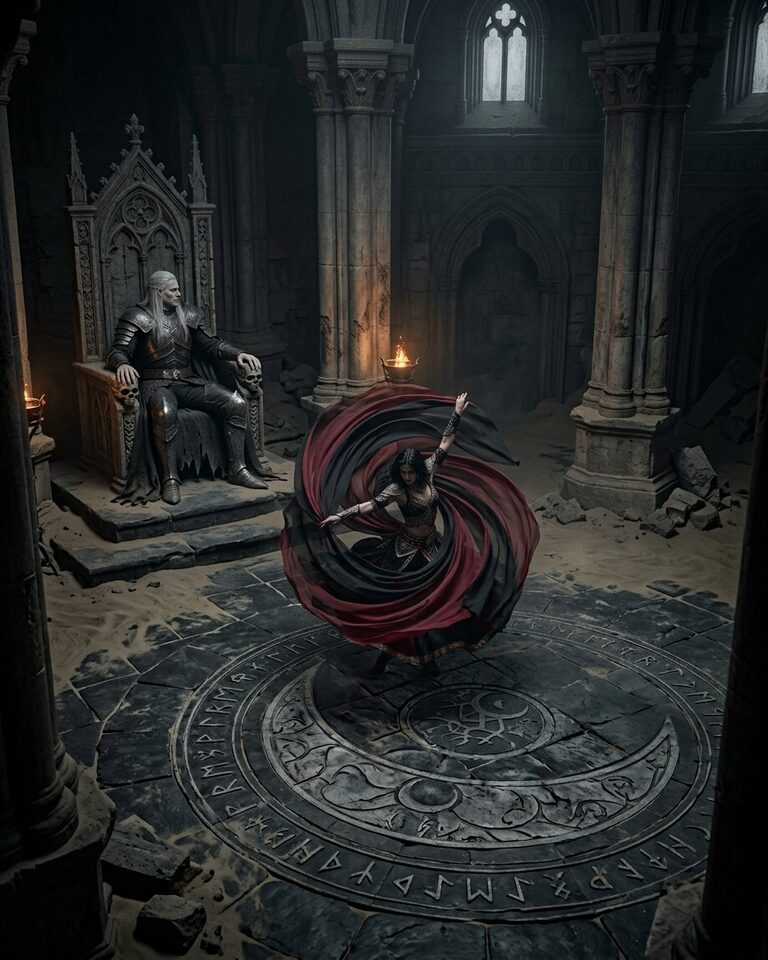
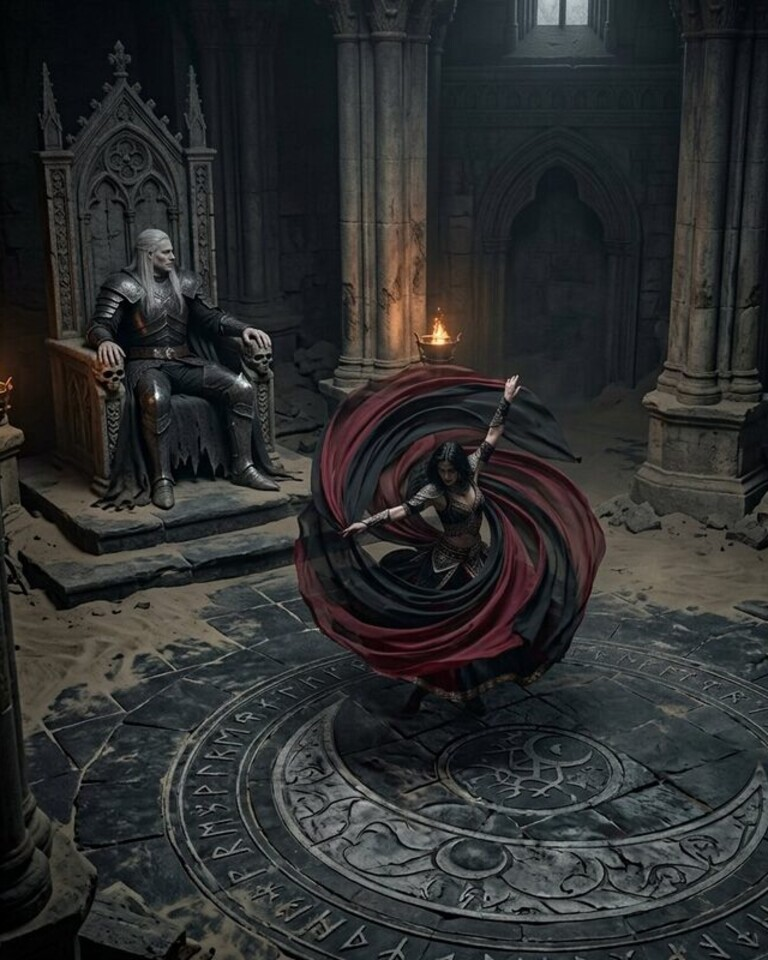
Rapproche le cadrage sur la danseuse

diff --git a/src/games/rpgCardArt.js b/src/games/rpgCardArt.js
@@ -60,7 +60,7 @@ const SET_NEIGE_SOULS_VERSION = 'neige-souls-cendres-v1';
 const SANS_TEINTE = 'sans-teinte-v1';
 
 const CARD_ART_CACHE_VERSIONS = {
-  'danseuse-des-ombres-de-dune': 'lune-danseuse-v6',
+  'danseuse-des-ombres-de-dune': 'lune-danseuse-v7',
   'souverain-de-la-lune-noire': 'lune-heros-v2',
   'voile-de-la-lune-noire': 'lune-magie-v4',
   'ressac-de-la-lune-noire': 'lune-magie-v4',
